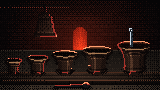
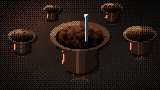
Zwischenstand: Ereignisbilder Nacharbeit
Claude-Session: https://claude.ai/code/session_01TghvEfjLh3w7y1uAeKR46M

diff --git a/tools/ereignisse/bilder/glockengiesserei.js b/tools/ereignisse/bilder/glockengiesserei.js
@@ -218,74 +218,62 @@ module.exports = {
     // Fünf Glocken mit dem Mund nach oben auf dem Lehmboden, in einer ein Meißel, der aufrecht steckt.
     glockengiesserei_stimmen(K) {
       const { B } = K;
-      ziegelwand(K, 0, 0, 160, 50, { tf: (x, y) => -y / 200 });
-      // Ofen hinten: ein kleiner glühender Bogen
-      const ob = K.maske(); ob.fn(70, 26, 90, 50, (x, y) => Math.abs(x - 80) < 7 && (y > 34 || Math.hypot(x - 80, y - 34) < 7));
-      K.form(ob, 0, { k: GLUT.slice(1, 6), ton: 2.4, verlauf: -1.6, fase: 0, rand: 0, muster: (x, y) => -Math.abs(x - 80) / 7 });
-      K.licht(80, 46, 80, '#4a1208', .9);
-      K.feld(0, 50, 160, 90, LEHM, (x, y) => .35 + (y - 50) / 70 + (B.hash(x, y >> 1, 3) < .1 ? .15 : 0));
-      K.rect(0, 50, 160, 1, LEHM[6]);
-      // hinten an der Wand: ein Balken mit einer hängenden, fertigen Glocke
-      const hb = K.maske(); hb.rect(-2, 5, 72, 3); K.form(hb, .15, { k: HOLZ, r: RAND_H, ton: 2.6, fase: 0, rand: 1, L: [0, 1] });
-      const hg = glocke(K, 46, 15, 22, 11, { haken: 7, tiefe: .12, ton: 2.2, L: [.8, .3] });
-      K.kante(hg.m, 80, 40, 60, RAND_B, { nah: .4, min: .1 });
-      // Bohlen quer über den Boden: Oberseite und Stirnkante
-      K.bretter(0, 72, 160, 80, HOLZ.concat(['#4a3428', '#5e4030']), { breite: 2.7, ton: .7, tf: (x) => -Math.abs(x - 80) / 260 });
-      K.feld(0, 80, 160, 85, HOLZ, (x, y) => .55 - (y - 80) / 8 + ((x % 23) === 0 ? -.4 : 0));
-      K.rect(0, 72, 160, 1, '#4a2a1c'); K.rect(0, 80, 160, 1, '#5a3424');
-      K.lichtquelle(80, 30);
-      // Glocke mit dem Mund nach oben: Mund (Schärfe, Schlagring), Flanke, Schulter, Haube, Krone unten auf der Bohle.
-      // Als Drehkörper gebaut: jede Höhe ein Kreis, von oben schräg gesehen (Ellipse, Faktor k).
-      const k = .26;
-      const glockeAuf = (cx, fb, R, weich) => {
-        const h = R * 1.62, ym = fb - h;
-        const w = yc => { const q = Math.min(1, Math.max(0, 1 - (yc - ym) / h)); let b;
-          if (q < .14) b = .66 * (.5 + .5 * Math.sqrt(Math.max(0, 1 - ((.14 - q) / .14) ** 2)));   // Schulter, rund
-          else if (q < .5) b = .66 - Math.sin((q - .14) / .36 * Math.PI) * .03;               // Flanke, leicht eingezogen
-          else b = .66 + Math.pow((q - .5) / .5, 1.7) * .4;                                     // ausgestellt bis zum Schlag
-          if (q > .84 && q < .97) b += .06 * Math.sin((q - .84) / .13 * Math.PI);              // Schlagring
-          return b * R; };
-        const m = K.maske();
-        for (let yc = ym; yc <= fb; yc += .5) m.ell(cx, yc, w(yc), w(yc) * k);
-        m.ell(cx, fb + .5, w(fb) * .95, w(fb) * k * 1.4);                   // Haube
-        const ringY = y => { let yc = y; for (let n = 0; n < 3; n++) { const ww = w(Math.min(fb, Math.max(ym, yc))), dx = 0; void dx; yc = y - Math.sqrt(Math.max(0, 1 - ((xg - cx) / ww) ** 2)) * ww * k; } return yc; };
-        let xg = cx;
-        K.form(m, 0, { k: BRONZE, r: RAND_B, ton: 2.8, fase: Math.max(1, R * .07), rand: 2, schatten: 2, verlauf: -.6, L: [(80 - cx) / 100, -1],
-          muster: (x, y) => { xg = x; const yc = ringY(y), q = 1 - (yc - ym) / h, sn = (x - cx) / (w(Math.min(fb, Math.max(ym, yc))) || 1); let t = 0;
-            for (const l of [.84, .97, .78, .16, .2]) { const d = (q - l) * h; if (Math.abs(d) < .55) t -= 1.6; else if (Math.abs(d + 1) < .55) t += .9; }
-            if (Math.abs(q - .72) * h < .6 && ((x + 2 * Math.round(y)) % 3 === 0)) t += 1.4;                // Inschriftband
-            if (q > .85 && q < .96) t += .9;                                                            // Schlagring heller
-            const g = (80 - cx) >= 0 ? sn : -sn; if (g > .18 && g < .4) t += 2.2; else if (g > .5 && g < .62) t += 1; else if (g < -.45) t -= 1;
-            return t; } });
-        // Krone unter der Haube, auf der Bohle
-        const kr = K.maske(), ky = fb + w(fb) * k * 1.25;
-        kr.rect(cx - R * .2, ky - 1, R * .4, R * .14 + 1); kr.ell(cx - R * .22, ky + R * .1, R * .1, R * .12); kr.ell(cx + R * .22, ky + R * .1, R * .1, R * .12);
-        K.form(kr, 0, { k: BRONZE.slice(0, 5), r: RAND_B, ton: 2, fase: 0, rand: 1 });
-        // Mund: die ferne Innenwand vom Ofen beleuchtet, vorne Schwarz; die fünfte innen weich und matt
-        const ix = w(ym) - Math.max(1.2, R * .1), iy = ix * k - .6;
-        K.feld(0, 0, 160, 90, weich ? ['#0a0404', '#1e0c08', '#3a1a10', '#5a2a18', '#6e3a26'] : ['#030202', '#1a0c08', '#3a1e12', '#6a3a22', '#a06040'], (x, y) => {
-          if (Math.hypot((x + .5 - cx) / ix, (y + .5 - ym) / iy) >= 1) return -1;
-          const v = (y + .5 - (ym - iy)) / (2 * iy);
-          return (v < .3 ? .95 - v * 1.6 : .12 - v * .1) + (weich ? (B.fbm(x * .4, y * .6, 3, 2) - .5) * .9 : 0);
-        });
-        // Die Schärfe: vorderer Rand des Mundes als helle Linie, darunter der dunkle Schlagring-Schatten
-        const wm = w(ym);
-        for (let x = Math.ceil(cx - wm + 1); x <= cx + wm - 1; x++) { const dy = Math.sqrt(Math.max(0, 1 - ((x - cx) / wm) ** 2)) * wm * k; K.set(x, Math.round(ym + dy), Math.abs(x - cx) < wm * .7 ? BRONZE[7] : BRONZE[5]); K.set(x, Math.round(ym + dy) + 2, BRONZE[1]); }
-        K.kante(m, 80, 30, 200, RAND_B, { nah: .2, min: .3 });
-        return { ym, ix, iy };
+      // Stark von schräg oben: Lehmboden füllt das Bild, Licht einer Lampe von links oben
+      K.feld(0, 0, 160, 90, LEHM, (x, y) => .3 + y / 300 + (B.hash(x, y >> 1, 3) < .08 ? .12 : 0) + (B.fbm(x * .05, y * .08, K.seed, 2) - .5) * .25 + Math.max(0, 1 - Math.hypot((x - 40) / 90, (y - 10) / 60)) * .35);
+      K.lichtquelle(10, -30);
+      K.licht(30, 0, 110, '#2a0c06', .8);
+      const k = .5;
+      // Glockenprofil (q 0 Schulter … 1 Schlag), Anteil am Randradius R: Schulter rund, Flanke konkav, Schlag ausgestellt
+      const prof = q => {
+        let b;
+        if (q < .15) b = .6 * (.5 + .5 * Math.sqrt(Math.max(0, 1 - ((.15 - q) / .15) ** 2)));
+        else if (q < .55) b = .6 - Math.sin((q - .15) / .4 * Math.PI) * .035;
+        else b = .6 + Math.pow((q - .55) / .45, 1.8) * .4;
+        if (q > .84 && q < .98) b += .05 * Math.sin((q - .84) / .14 * Math.PI);
+        return b;
       };
-      const reihe = [[14, 8], [38, 9.5], [65, 11.5], [97, 13.5], [134, 16]];
-      let f;
-      reihe.forEach(([cx, R], i) => { const g = glockeAuf(cx, 75 - R * .33 * k * 1.4 - R * .14, R, i === 4); if (i === 4) f = { cx, ...g }; });
-      // Der Klöppel liegt vor der Bohle
-      const kl = K.maske(); kl.kap(56, 86.5, 82, 85, 1, 1.4); kl.ell(86, 84.8, 3.6, 3); kl.ell(56, 86.2, 1.6, 1.6); kl.ell(56, 86.2, .7, .7, 0);
-      K.form(kl, 0, { k: ['#050505', '#0c0b0c', '#161416', '#242024'], r: RAND_B, ton: 1.8, fase: 0, rand: 2, schatten: 2 });
-      // Der Meißel: steckt aufrecht in der fünften, die Schneide fängt das Licht
-      const mx = f.cx - 3, my = f.ym + 1;
-      const me = K.maske(); me.rect(mx - 1, my - 15, 2.5, 16); me.rect(mx - 1.5, my - 17, 3.5, 3);
-      K.form(me, 0, { k: KALT.slice(0, 5), r: ['#c8d8e4', '#ffffff'], ton: 2.4, fase: 0, rand: 1, L: [-.6, -.8] });
-      K.set(mx, my - 15, '#ffffff');
-      K.vignette(.65, { cx: 84, cy: 56 });
+      // Glocke, Mund oben (ym), von oben gesehen; H = sichtbare Höhe
+      const glockeAuf = (cx, ym, R, o) => {
+        o = o || {}; const H = R * 1.05, w = q => prof(q) * R, yq = q => ym + (1 - q) * H;
+        // Krone: ein Bügel, der unten im Lehm steckt
+        const yb = yq(0) + w(0) * k;
+        const kr = K.maske(); kr.kap(cx - R * .16, yb - 2, cx - R * .16, yb + R * .16, R * .05 + .6, R * .05 + .6); kr.kap(cx + R * .16, yb - 2, cx + R * .16, yb + R * .16, R * .05 + .6, R * .05 + .6);
+        kr.fn(cx - R * .25, yb - 2, cx + R * .25, yb + R * .3, (x, y) => { const d = Math.hypot((x - cx) / (R * .16), (y - yb - R * .16) / (R * .12)); return d < 1.35 && d > .75 && y > yb + R * .16; });
+        K.form(kr, 0, { k: BRONZE.slice(0, 6), r: RAND_B, ton: 2.6, fase: 0, rand: 1, L: [-.5, -.8] });
+        const lehm = K.maske(); lehm.ell(cx, yb + R * .3, R * .34, R * .09); K.form(lehm, 0, { k: LEHM.slice(2), ton: 3, fase: 0, rand: 1, r: [LEHM[7]], L: [0, -1] });
+        // Körper als Drehkörper
+        const m = K.maske();
+        for (let q = 0; q <= 1; q += .01) m.ell(cx, yq(q), w(q), w(q) * k);
+        const ring = (x, y) => { let best = 0; for (let q = 1; q >= 0; q -= .02) { const ww = w(q), dx = (x - cx) / ww; if (Math.abs(dx) > 1) continue; const yf = yq(q) + Math.sqrt(1 - dx * dx) * ww * k; if (yf >= y) best = q; else break; } return best; };
+        K.form(m, 0, { k: BRONZE, r: RAND_B, ton: 3, fase: Math.max(1, R * .05), rand: 2, schatten: 2, L: [-.6, -.8],
+          muster: (x, y) => { const q = ring(x + .5, y + .5), sn = (x - cx) / (w(q) || 1); let t = 0;
+            for (const l of [.84, .97, .3, .26, .06]) { const d = (q - l) * H; if (Math.abs(d) < .55) t -= 1.7; else if (Math.abs(d - 1) < .55) t += .8; }
+            if (Math.abs(q - .5) * H < .6 && ((x + Math.round(y)) % 3 === 0)) t += 1.3;
+            if (sn < -.2 && sn > -.48) t += 2; else if (sn > .55) t -= 1.2;
+            return t; } });
+        // Mund: dicke Lippe (Schlagring oben) als heller Ring, darin die Innenwand, unten tief schwarz
+        const ro = w(1), ri = ro * .82;
+        K.feld(0, 0, 160, 90, BRONZE, (x, y) => { const a = Math.hypot((x + .5 - cx) / ro, (y + .5 - ym) / (ro * k)), b = Math.hypot((x + .5 - cx) / ri, (y + .5 - ym - ro * k * .08) / (ri * k)); return a < 1 && b >= 1 ? 5.3 / 7 + (x < cx ? .12 : -.1) + (y < ym ? .06 : -.05) : -1; });
+        const INNEN = o.weich ? ['#050203', '#140806', '#2a120c', '#4a2214', '#6a361e', '#7e4a2c'] : ['#030202', '#140a08', '#301a10', '#5a341e', '#8a5a36', '#b8875a'];
+        K.feld(0, 0, 160, 90, INNEN, (x, y) => {
+          const cyi = ym + ro * k * .08; if (Math.hypot((x + .5 - cx) / ri, (y + .5 - cyi) / (ri * k)) >= 1) return -1;
+          const v = (y + .5 - (cyi - ri * k)) / (2 * ri * k);
+          return (v < .55 ? .95 - v * 1.2 : .25 - (v - .55) * .5) + (x > cx ? -.08 : .04) + (o.weich ? (B.fbm(x * .35, y * .5, 3, 2) - .5) * .9 : 0);
+        });
+        return { cx, ym, ri };
+      };
+      // Fünf Glocken der Größe nach: hinten die kleinen, vorn in der Mitte die große mit dem Meißel
+      glockeAuf(52, 9, 9);
+      glockeAuf(112, 8, 11);
+      glockeAuf(22, 36, 14);
+      glockeAuf(140, 34, 17);
+      const g = glockeAuf(80, 36, 30, { weich: true });
+      // Der Meißel: steht aufrecht in der großen, ragt über den Rand
+      const mx = g.cx + 6, mb = g.ym + 6;
+      const me = K.maske(); me.rect(mx - 1, mb - 26, 3, 26); me.rect(mx - 1.5, mb - 28, 4, 3);
+      K.form(me, 0, { k: KALT.slice(0, 6), r: ['#c8d8e4', '#ffffff'], ton: 2.6, fase: 0, rand: 1, L: [-.7, -.7] });
+      K.set(mx, mb - 27, '#ffffff'); K.set(mx - 1, mb - 27, '#e8f0f4');
+      K.vignette(.6, { cx: 80, cy: 46 });
     },
 
     // Eine Reihe hängender Glocken im Halbdunkel, unter jeder treten zwei Füße in der Luft; durch den Boden steigt Wasser in die glühenden Rinnen.
